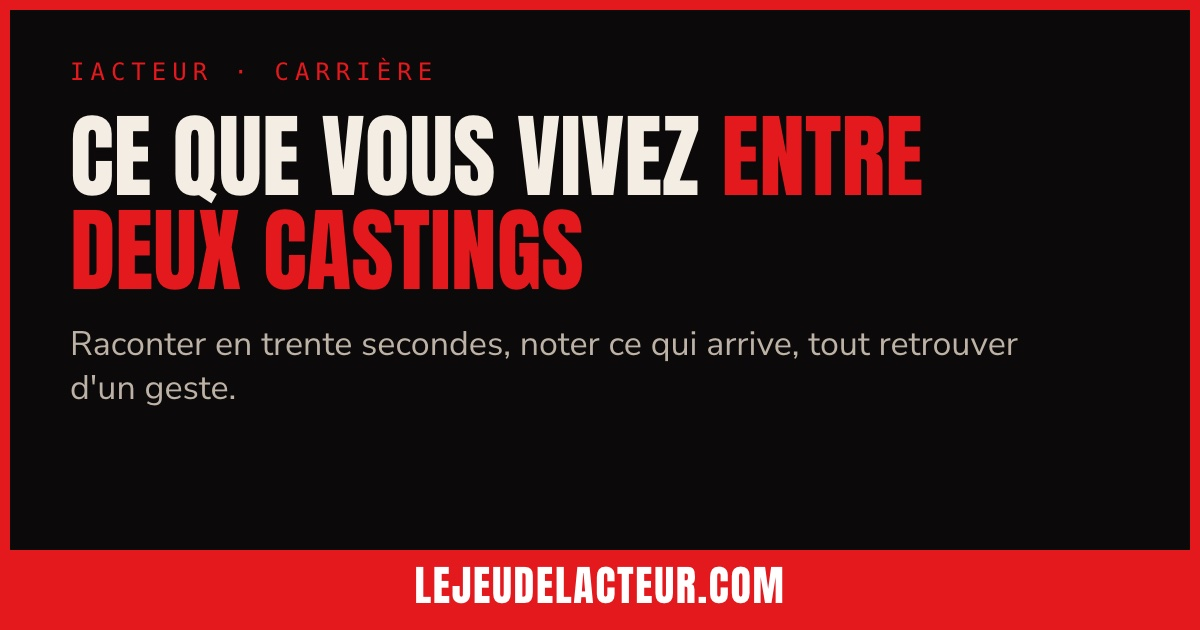
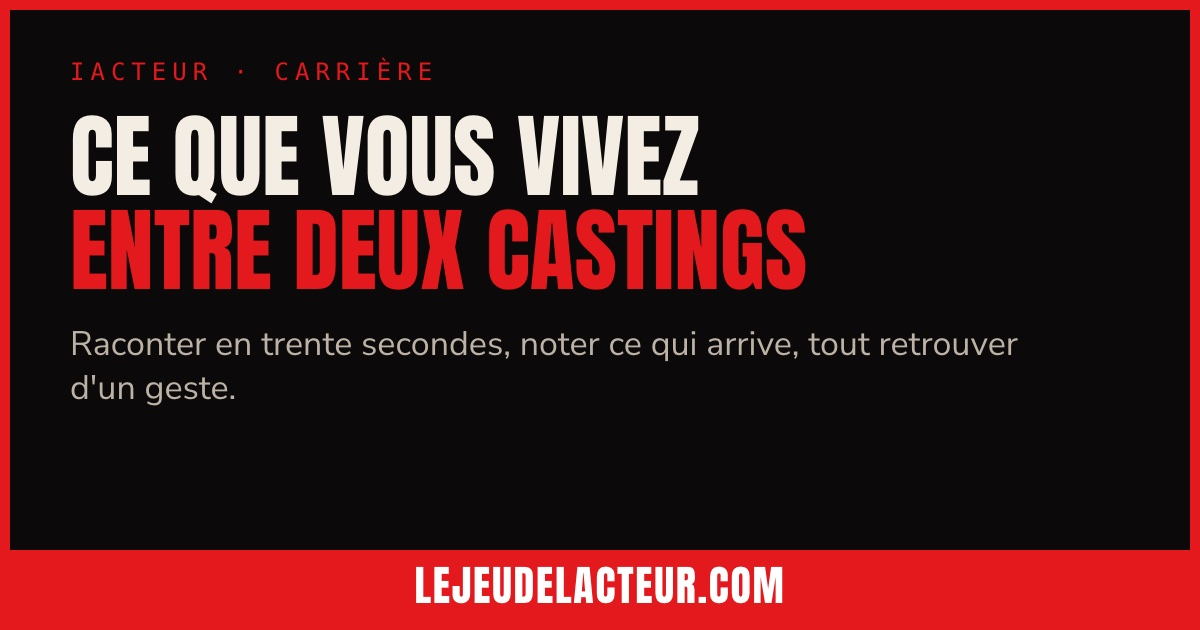
Couverture CARRIERE : saut de ligne avant « entre deux castings » (en rouge)

Changed region(s): [[0.0617, 0.181, 0.7708, 0.4825]]

diff --git a/src/app/visuels/[format]/page.tsx b/src/app/visuels/[format]/page.tsx
@@ -189,7 +189,7 @@ export default async function Visuel({ params }: PageProps<"/visuels/[format]">)
         <div style={{ position: "absolute", left: 60, top: 44, right: 60 }}>
           <p className="font-mono" style={{ fontSize: 24, letterSpacing: "0.25em", color: "#e3191d", margin: 0 }}>IACTEUR · CARRIÈRE</p>
           <p className="font-affiche uppercase" style={{ fontSize: 92, lineHeight: 1.02, margin: "20px 0 0" }}>
-            Ce que vous vivez <span style={{ color: "#e3191d" }}>entre deux castings</span>
+            Ce que vous vivez<br /><span style={{ color: "#e3191d" }}>entre deux castings</span>
           </p>
           <p style={{ fontSize: 34, lineHeight: 1.3, margin: "24px 0 0", color: "#bdb2a6" }}>
             Raconter en trente secondes, noter ce qui arrive, tout retrouver d&apos;un geste.
